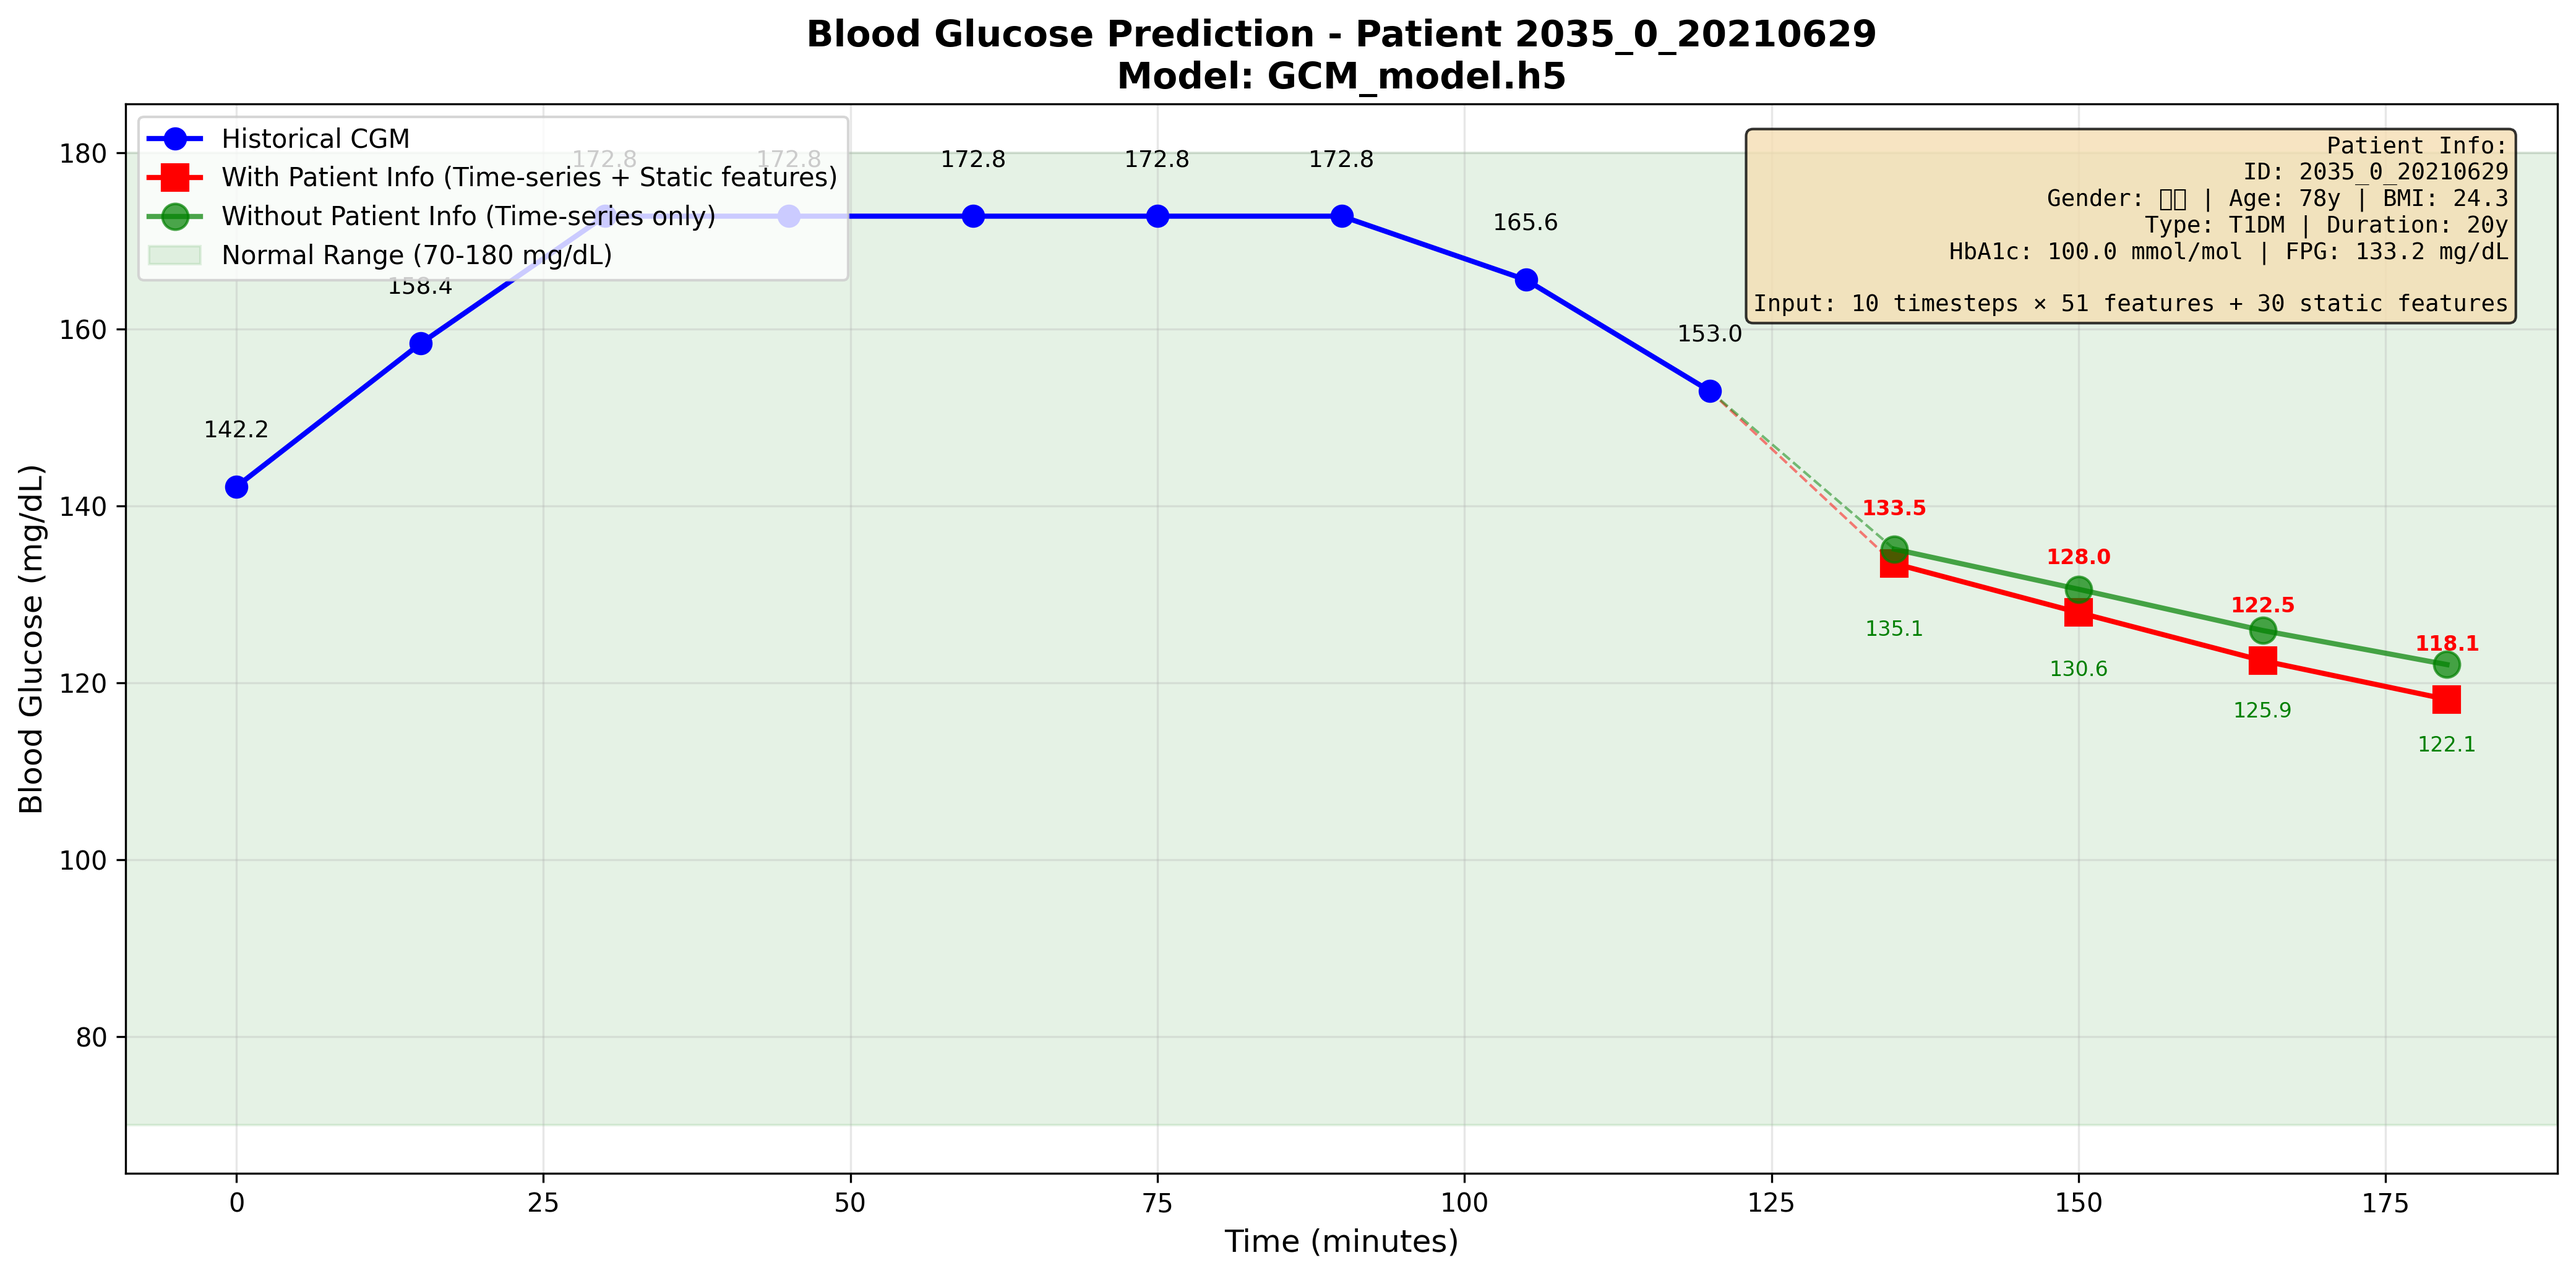
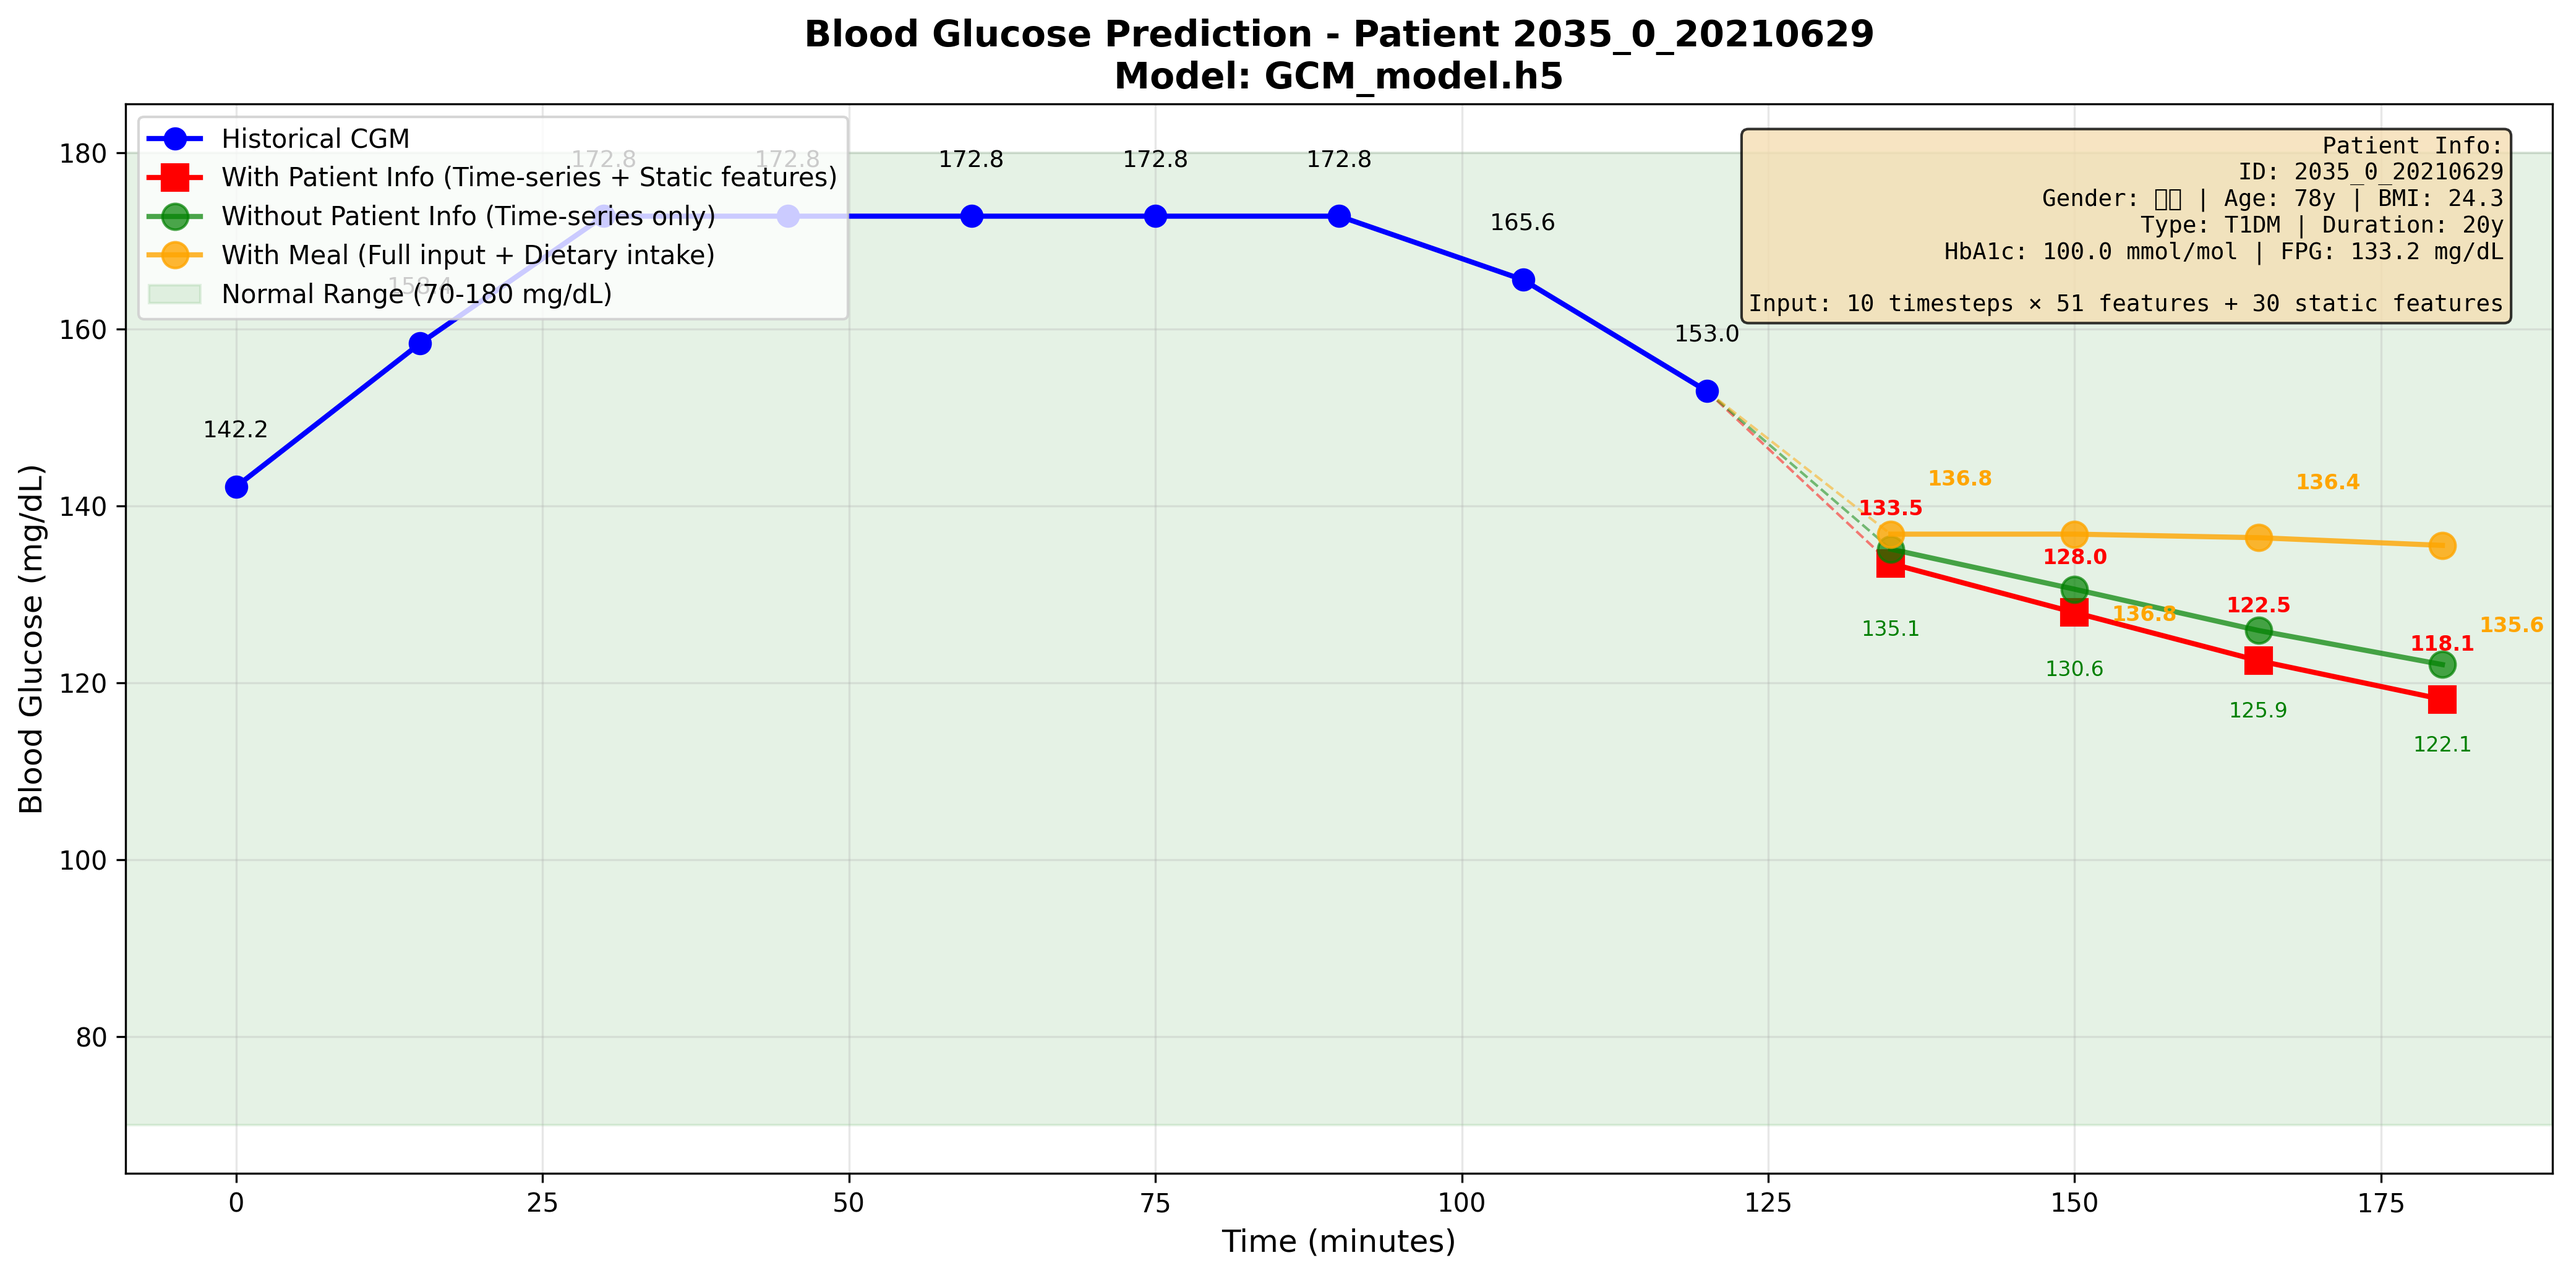
Add meal scenario prediction line to all three demos
- Added third prediction line (orange) simulating dietary intake
- Set Dietary intake feature (index 1) to 1.0 in last timestep
- Shows blood glucose response to meal scenario
- Updated all three model demos (GCM_model.h5, GCM_model_tf213_new.h5, TFLite)
- Generated new comparison graphs with three prediction lines:
  * Red: With patient info (full input)
  * Green: Without patient info (time-series only)
  * Orange: With meal scenario (full input + dietary intake)

🤖 Generated with [Claude Code](https://claude.com/claude-code)

diff --git a/demo3_tflite_model.py b/demo3_tflite_model.py
@@ -211,11 +211,35 @@ print(f"    30分钟后血糖: {y_pred_no_static[0][1]:.2f} mg/dL")
 print(f"    45分钟后血糖: {y_pred_no_static[0][2]:.2f} mg/dL")
 print(f"    60分钟后血糖: {y_pred_no_static[0][3]:.2f} mg/dL")
 
+# 预测3: 模拟进餐场景（在最后一个时间步添加饮食摄入）
+print("\n  [7.3] 模拟进餐场景（添加饮食摄入）...")
+ts_X_input_with_meal = ts_X_input.copy()
+# Dietary intake 是索引1，在最后一个时间步（索引-1）设置为进餐标记
+# 需要先反标准化，修改，再标准化
+ts_X_input_raw = scaler_ts_X.inverse_transform(ts_X_input_with_meal.reshape(-1, ts_X_input_with_meal.shape[-1])).reshape(ts_X_input_with_meal.shape)
+ts_X_input_raw[0, -1, 1] = 1.0  # 设置最后一个时间步的饮食摄入为1
+ts_X_input_with_meal = scaler_ts_X.transform(ts_X_input_raw.reshape(-1, ts_X_input_raw.shape[-1])).reshape(ts_X_input_raw.shape)
+ts_X_input_with_meal_float32 = ts_X_input_with_meal.astype(np.float32)
+
+interpreter.set_tensor(input_details[0]['index'], ts_X_input_with_meal_float32)
+interpreter.set_tensor(input_details[1]['index'], static_X_input_float32)
+interpreter.invoke()
+y_pred_meal_scaled = interpreter.get_tensor(output_details[0]['index'])
+y_pred_meal = scaler_y.inverse_transform(y_pred_meal_scaled)
+
+print("\n  进餐场景预测结果:")
+print(f"    15分钟后血糖: {y_pred_meal[0][0]:.2f} mg/dL")
+print(f"    30分钟后血糖: {y_pred_meal[0][1]:.2f} mg/dL")
+print(f"    45分钟后血糖: {y_pred_meal[0][2]:.2f} mg/dL")
+print(f"    60分钟后血糖: {y_pred_meal[0][3]:.2f} mg/dL")
+
 # 计算差异
 print("\n  预测差异分析:")
+print("  vs 完整输入（无进餐）:")
 for i, time in enumerate(['15分钟', '30分钟', '45分钟', '60分钟']):
-    diff = y_pred_full[0][i] - y_pred_no_static[0][i]
-    print(f"    {time}: {diff:+.2f} mg/dL (患者信息的影响)")
+    diff1 = y_pred_full[0][i] - y_pred_no_static[0][i]
+    diff2 = y_pred_meal[0][i] - y_pred_full[0][i]
+    print(f"    {time}: 患者信息影响 {diff1:+.2f} mg/dL | 进餐影响 {diff2:+.2f} mg/dL")
 
 # 8. 可视化结果
 print("\n[8] 绘制血糖预测图...")
@@ -239,11 +263,17 @@ ax.plot(prediction_times, y_pred_full[0], 'rs-', linewidth=2, markersize=10,
 ax.plot(prediction_times, y_pred_no_static[0], 'go-', linewidth=2, markersize=10,
          label='Without Patient Info (Time-series only)', zorder=3, alpha=0.7)
 
+# 预测线3: 进餐场景（完整输入 + 饮食摄入）
+ax.plot(prediction_times, y_pred_meal[0], 'o-', color='orange', linewidth=2, markersize=10,
+         label='With Meal (Full input + Dietary intake)', zorder=3, alpha=0.8)
+
 # 连接线
 ax.plot([time_points[-1], prediction_times[0]], [cgm_values[-1], y_pred_full[0][0]],
          'r--', alpha=0.5, linewidth=1)
 ax.plot([time_points[-1], prediction_times[0]], [cgm_values[-1], y_pred_no_static[0][0]],
          'g--', alpha=0.5, linewidth=1)
+ax.plot([time_points[-1], prediction_times[0]], [cgm_values[-1], y_pred_meal[0][0]],
+         '--', color='orange', alpha=0.5, linewidth=1)
 
 # 添加数值标签 - 历史值
 for i, (t, v) in enumerate(zip(time_points, cgm_values)):
@@ -256,6 +286,12 @@ for i, (t, v) in enumerate(zip(prediction_times, y_pred_full[0])):
 # 添加数值标签 - 仅时序预测
 for i, (t, v) in enumerate(zip(prediction_times, y_pred_no_static[0])):
     ax.text(t, v - 8, f'{v:.1f}', ha='center', va='top', fontsize=8, color='green')
+
+# 添加数值标签 - 进餐场景预测
+for i, (t, v) in enumerate(zip(prediction_times, y_pred_meal[0])):
+    offset = 5 if i % 2 == 0 else -8  # 交替上下避免重叠
+    va = 'bottom' if offset > 0 else 'top'
+    ax.text(t + 3, v + offset, f'{v:.1f}', ha='left', va=va, fontsize=8, color='orange', fontweight='bold')
 
 # 添加正常血糖范围阴影
 ax.axhspan(70, 180, alpha=0.1, color='green', label='Normal Range (70-180 mg/dL)')

diff --git a/demo1_gcm_model.py b/demo1_gcm_model.py
@@ -189,11 +189,31 @@ print(f"    30分钟后血糖: {y_pred_no_static[0][1]:.2f} mg/dL")
 print(f"    45分钟后血糖: {y_pred_no_static[0][2]:.2f} mg/dL")
 print(f"    60分钟后血糖: {y_pred_no_static[0][3]:.2f} mg/dL")
 
+# 预测3: 模拟进餐场景（在最后一个时间步添加饮食摄入）
+print("\n  [7.3] 模拟进餐场景（添加饮食摄入）...")
+ts_X_input_with_meal = ts_X_input.copy()
+# Dietary intake 是索引1，在最后一个时间步（索引-1）设置为进餐标记
+# 需要先反标准化，修改，再标准化
+ts_X_input_raw = scaler_ts_X.inverse_transform(ts_X_input_with_meal.reshape(-1, ts_X_input_with_meal.shape[-1])).reshape(ts_X_input_with_meal.shape)
+ts_X_input_raw[0, -1, 1] = 1.0  # 设置最后一个时间步的饮食摄入为1
+ts_X_input_with_meal = scaler_ts_X.transform(ts_X_input_raw.reshape(-1, ts_X_input_raw.shape[-1])).reshape(ts_X_input_raw.shape)
+
+y_pred_meal_scaled = model.predict([ts_X_input_with_meal, static_X_input], verbose=0)
+y_pred_meal = scaler_y.inverse_transform(y_pred_meal_scaled)
+
+print("\n  进餐场景预测结果:")
+print(f"    15分钟后血糖: {y_pred_meal[0][0]:.2f} mg/dL")
+print(f"    30分钟后血糖: {y_pred_meal[0][1]:.2f} mg/dL")
+print(f"    45分钟后血糖: {y_pred_meal[0][2]:.2f} mg/dL")
+print(f"    60分钟后血糖: {y_pred_meal[0][3]:.2f} mg/dL")
+
 # 计算差异
 print("\n  预测差异分析:")
+print("  vs 完整输入（无进餐）:")
 for i, time in enumerate(['15分钟', '30分钟', '45分钟', '60分钟']):
-    diff = y_pred_full[0][i] - y_pred_no_static[0][i]
-    print(f"    {time}: {diff:+.2f} mg/dL (患者信息的影响)")
+    diff1 = y_pred_full[0][i] - y_pred_no_static[0][i]
+    diff2 = y_pred_meal[0][i] - y_pred_full[0][i]
+    print(f"    {time}: 患者信息影响 {diff1:+.2f} mg/dL | 进餐影响 {diff2:+.2f} mg/dL")
 
 # 8. 可视化结果
 print("\n[8] 绘制血糖预测图...")
@@ -217,11 +237,17 @@ ax.plot(prediction_times, y_pred_full[0], 'rs-', linewidth=2, markersize=10,
 ax.plot(prediction_times, y_pred_no_static[0], 'go-', linewidth=2, markersize=10,
          label='Without Patient Info (Time-series only)', zorder=3, alpha=0.7)
 
+# 预测线3: 进餐场景（完整输入 + 饮食摄入）
+ax.plot(prediction_times, y_pred_meal[0], 'o-', color='orange', linewidth=2, markersize=10,
+         label='With Meal (Full input + Dietary intake)', zorder=3, alpha=0.8)
+
 # 连接线
 ax.plot([time_points[-1], prediction_times[0]], [cgm_values[-1], y_pred_full[0][0]],
          'r--', alpha=0.5, linewidth=1)
 ax.plot([time_points[-1], prediction_times[0]], [cgm_values[-1], y_pred_no_static[0][0]],
          'g--', alpha=0.5, linewidth=1)
+ax.plot([time_points[-1], prediction_times[0]], [cgm_values[-1], y_pred_meal[0][0]],
+         '--', color='orange', alpha=0.5, linewidth=1)
 
 # 添加数值标签 - 历史值
 for i, (t, v) in enumerate(zip(time_points, cgm_values)):
@@ -234,6 +260,12 @@ for i, (t, v) in enumerate(zip(prediction_times, y_pred_full[0])):
 # 添加数值标签 - 仅时序预测
 for i, (t, v) in enumerate(zip(prediction_times, y_pred_no_static[0])):
     ax.text(t, v - 8, f'{v:.1f}', ha='center', va='top', fontsize=8, color='green')
+
+# 添加数值标签 - 进餐场景预测
+for i, (t, v) in enumerate(zip(prediction_times, y_pred_meal[0])):
+    offset = 5 if i % 2 == 0 else -8  # 交替上下避免重叠
+    va = 'bottom' if offset > 0 else 'top'
+    ax.text(t + 3, v + offset, f'{v:.1f}', ha='left', va=va, fontsize=8, color='orange', fontweight='bold')
 
 # 添加正常血糖范围阴影
 ax.axhspan(70, 180, alpha=0.1, color='green', label='Normal Range (70-180 mg/dL)')

diff --git a/demo2_gcm_model_tf213.py b/demo2_gcm_model_tf213.py
@@ -189,11 +189,31 @@ print(f"    30分钟后血糖: {y_pred_no_static[0][1]:.2f} mg/dL")
 print(f"    45分钟后血糖: {y_pred_no_static[0][2]:.2f} mg/dL")
 print(f"    60分钟后血糖: {y_pred_no_static[0][3]:.2f} mg/dL")
 
+# 预测3: 模拟进餐场景（在最后一个时间步添加饮食摄入）
+print("\n  [7.3] 模拟进餐场景（添加饮食摄入）...")
+ts_X_input_with_meal = ts_X_input.copy()
+# Dietary intake 是索引1，在最后一个时间步（索引-1）设置为进餐标记
+# 需要先反标准化，修改，再标准化
+ts_X_input_raw = scaler_ts_X.inverse_transform(ts_X_input_with_meal.reshape(-1, ts_X_input_with_meal.shape[-1])).reshape(ts_X_input_with_meal.shape)
+ts_X_input_raw[0, -1, 1] = 1.0  # 设置最后一个时间步的饮食摄入为1
+ts_X_input_with_meal = scaler_ts_X.transform(ts_X_input_raw.reshape(-1, ts_X_input_raw.shape[-1])).reshape(ts_X_input_raw.shape)
+
+y_pred_meal_scaled = model.predict([ts_X_input_with_meal, static_X_input], verbose=0)
+y_pred_meal = scaler_y.inverse_transform(y_pred_meal_scaled)
+
+print("\n  进餐场景预测结果:")
+print(f"    15分钟后血糖: {y_pred_meal[0][0]:.2f} mg/dL")
+print(f"    30分钟后血糖: {y_pred_meal[0][1]:.2f} mg/dL")
+print(f"    45分钟后血糖: {y_pred_meal[0][2]:.2f} mg/dL")
+print(f"    60分钟后血糖: {y_pred_meal[0][3]:.2f} mg/dL")
+
 # 计算差异
 print("\n  预测差异分析:")
+print("  vs 完整输入（无进餐）:")
 for i, time in enumerate(['15分钟', '30分钟', '45分钟', '60分钟']):
-    diff = y_pred_full[0][i] - y_pred_no_static[0][i]
-    print(f"    {time}: {diff:+.2f} mg/dL (患者信息的影响)")
+    diff1 = y_pred_full[0][i] - y_pred_no_static[0][i]
+    diff2 = y_pred_meal[0][i] - y_pred_full[0][i]
+    print(f"    {time}: 患者信息影响 {diff1:+.2f} mg/dL | 进餐影响 {diff2:+.2f} mg/dL")
 
 # 8. 可视化结果
 print("\n[8] 绘制血糖预测图...")
@@ -217,11 +237,17 @@ ax.plot(prediction_times, y_pred_full[0], 'rs-', linewidth=2, markersize=10,
 ax.plot(prediction_times, y_pred_no_static[0], 'go-', linewidth=2, markersize=10,
          label='Without Patient Info (Time-series only)', zorder=3, alpha=0.7)
 
+# 预测线3: 进餐场景（完整输入 + 饮食摄入）
+ax.plot(prediction_times, y_pred_meal[0], 'o-', color='orange', linewidth=2, markersize=10,
+         label='With Meal (Full input + Dietary intake)', zorder=3, alpha=0.8)
+
 # 连接线
 ax.plot([time_points[-1], prediction_times[0]], [cgm_values[-1], y_pred_full[0][0]],
          'r--', alpha=0.5, linewidth=1)
 ax.plot([time_points[-1], prediction_times[0]], [cgm_values[-1], y_pred_no_static[0][0]],
          'g--', alpha=0.5, linewidth=1)
+ax.plot([time_points[-1], prediction_times[0]], [cgm_values[-1], y_pred_meal[0][0]],
+         '--', color='orange', alpha=0.5, linewidth=1)
 
 # 添加数值标签 - 历史值
 for i, (t, v) in enumerate(zip(time_points, cgm_values)):
@@ -234,6 +260,12 @@ for i, (t, v) in enumerate(zip(prediction_times, y_pred_full[0])):
 # 添加数值标签 - 仅时序预测
 for i, (t, v) in enumerate(zip(prediction_times, y_pred_no_static[0])):
     ax.text(t, v - 8, f'{v:.1f}', ha='center', va='top', fontsize=8, color='green')
+
+# 添加数值标签 - 进餐场景预测
+for i, (t, v) in enumerate(zip(prediction_times, y_pred_meal[0])):
+    offset = 5 if i % 2 == 0 else -8  # 交替上下避免重叠
+    va = 'bottom' if offset > 0 else 'top'
+    ax.text(t + 3, v + offset, f'{v:.1f}', ha='left', va=va, fontsize=8, color='orange', fontweight='bold')
 
 # 添加正常血糖范围阴影
 ax.axhspan(70, 180, alpha=0.1, color='green', label='Normal Range (70-180 mg/dL)')
